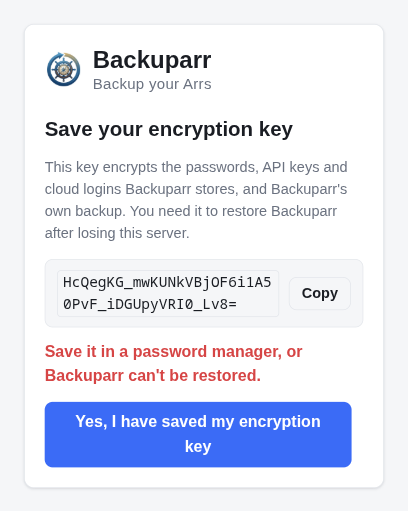
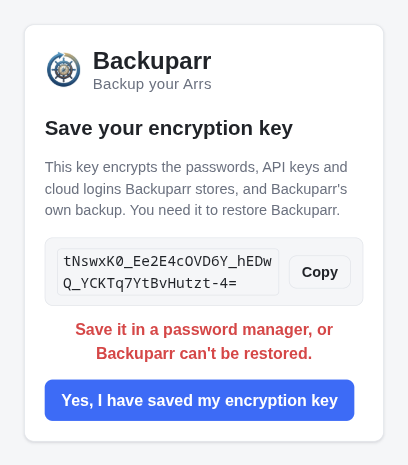
Center the key prompt's warning, move Schedule & notifications up, and show 5 releases in What's Changed

diff --git a/webui/templates/index.html b/webui/templates/index.html
@@ -239,46 +239,6 @@
           </div>
         </div>
 
-        <div class="card" id="request-headers-card">
-          <h2>Service authentication</h2>
-          <p class="hint">Optional HTTP headers for apps behind an authenticating reverse proxy, used for connection tests, discovery, backups and restores. Each header goes to all apps or only the ones you pick. Values are stored encrypted.</p>
-          <div id="request-headers-list"></div>
-          <div class="request-headers-actions">
-            <button type="button" class="btn btn-ghost btn-sm" id="add-request-header">Add header</button>
-            <label><input type="checkbox" id="show-request-headers"> Show values</label>
-          </div>
-          <details class="request-headers-help" id="basic-auth-helper">
-            <summary>Generate Basic authentication</summary>
-            <p class="hint">Generate a Basic authentication value from a username and password, then apply it to a new or existing header.</p>
-            <form id="basic-auth-form" class="basic-auth-form">
-              <label class="field">
-                <span class="field-label">Target header</span>
-                <input id="basic-auth-header" type="text" value="Authorization" list="basic-auth-header-options" autocomplete="off" spellcheck="false" required aria-describedby="basic-auth-header-hint">
-              </label>
-              <datalist id="basic-auth-header-options">
-                <option value="Authorization"></option>
-                <option value="Proxy-Authorization"></option>
-              </datalist>
-              <p class="hint" id="basic-auth-header-hint">Use the header your server expects: Authorization for HTTP Basic, Proxy-Authorization for a proxy that accepts it, or a custom name. Applying replaces the value of the row with that name; to add another row with the same name for different apps, add it with an empty value first.</p>
-              <label class="field">
-                <span class="field-label">Username</span>
-                <input id="basic-auth-username" type="text" autocomplete="off" spellcheck="false" required>
-              </label>
-              <label class="field">
-                <span class="field-label">Password</span>
-                <input id="basic-auth-password" type="password" autocomplete="new-password">
-              </label>
-              <button type="submit" class="btn btn-ghost btn-sm">Apply to header</button>
-              <p id="basic-auth-status" class="test-result" role="status" aria-live="polite"></p>
-            </form>
-          </details>
-          <details class="request-headers-help">
-            <summary>Where headers are used</summary>
-            <p class="hint">App API keys are still required. Each app's own authentication takes priority when it uses the same header name; use a separate header if your proxy supports one.</p>
-            <p class="hint">Each header goes to the URLs of the apps it applies to, including a restore target entered for one of them. The same name can be used for different apps, with a different value for each. Headers are not sent to backup storage or notification services. Redirects to another scheme, host or port are blocked.</p>
-          </details>
-        </div>
-
         <div class="card">
           <h2>Schedule &amp; notifications</h2>
           <div class="field">
@@ -336,6 +296,46 @@
               <span class="test-result" id="notify-test-result"></span>
             </div>
           </div>
+        </div>
+
+        <div class="card" id="request-headers-card">
+          <h2>Service authentication</h2>
+          <p class="hint">Optional HTTP headers for apps behind an authenticating reverse proxy, used for connection tests, discovery, backups and restores. Each header goes to all apps or only the ones you pick. Values are stored encrypted.</p>
+          <div id="request-headers-list"></div>
+          <div class="request-headers-actions">
+            <button type="button" class="btn btn-ghost btn-sm" id="add-request-header">Add header</button>
+            <label><input type="checkbox" id="show-request-headers"> Show values</label>
+          </div>
+          <details class="request-headers-help" id="basic-auth-helper">
+            <summary>Generate Basic authentication</summary>
+            <p class="hint">Generate a Basic authentication value from a username and password, then apply it to a new or existing header.</p>
+            <form id="basic-auth-form" class="basic-auth-form">
+              <label class="field">
+                <span class="field-label">Target header</span>
+                <input id="basic-auth-header" type="text" value="Authorization" list="basic-auth-header-options" autocomplete="off" spellcheck="false" required aria-describedby="basic-auth-header-hint">
+              </label>
+              <datalist id="basic-auth-header-options">
+                <option value="Authorization"></option>
+                <option value="Proxy-Authorization"></option>
+              </datalist>
+              <p class="hint" id="basic-auth-header-hint">Use the header your server expects: Authorization for HTTP Basic, Proxy-Authorization for a proxy that accepts it, or a custom name. Applying replaces the value of the row with that name; to add another row with the same name for different apps, add it with an empty value first.</p>
+              <label class="field">
+                <span class="field-label">Username</span>
+                <input id="basic-auth-username" type="text" autocomplete="off" spellcheck="false" required>
+              </label>
+              <label class="field">
+                <span class="field-label">Password</span>
+                <input id="basic-auth-password" type="password" autocomplete="new-password">
+              </label>
+              <button type="submit" class="btn btn-ghost btn-sm">Apply to header</button>
+              <p id="basic-auth-status" class="test-result" role="status" aria-live="polite"></p>
+            </form>
+          </details>
+          <details class="request-headers-help">
+            <summary>Where headers are used</summary>
+            <p class="hint">App API keys are still required. Each app's own authentication takes priority when it uses the same header name; use a separate header if your proxy supports one.</p>
+            <p class="hint">Each header goes to the URLs of the apps it applies to, including a restore target entered for one of them. The same name can be used for different apps, with a different value for each. Headers are not sent to backup storage or notification services. Redirects to another scheme, host or port are blocked.</p>
+          </details>
         </div>
 
         <div class="card">
@@ -487,6 +487,7 @@
     </div>
     <div class="modal-body">
       <div id="whats-changed-body"></div>
+      <p class="whats-changed-all"><a href="https://github.com/rsaturns/backuparr/releases" target="_blank" rel="noopener noreferrer">View all changes</a></p>
     </div>
   </div>
 </div>
@@ -497,13 +498,13 @@
       <h3 id="key-modal-title">Save your encryption key</h3>
     </div>
     <div class="modal-body">
-    <p class="hint">This key encrypts the passwords, API keys and cloud logins Backuparr stores, and Backuparr's own backup. You need it to restore Backuparr after losing this server.</p>
+    <p class="hint">This key encrypts the passwords, API keys and cloud logins Backuparr stores, and Backuparr's own backup. You need it to restore Backuparr.</p>
       <div class="key-box">
         <code id="key-value" class="key-value"></code>
         <button type="button" class="btn btn-ghost btn-sm" id="key-copy-btn">Copy</button>
       </div>
       <p id="key-env-note" class="hint hidden">It's the key set with <code>BACKUPARR_SECRETS_KEY</code>.</p>
-      <p class="key-warning"><strong>Save it in a password manager, or Backuparr can't be restored.</strong> It will never be shown again.</p>
+      <p class="key-warning key-warning-centered"><strong>Save it in a password manager, or Backuparr can't be restored.</strong> It will never be shown again.</p>
       <div class="save-row">
         <button type="button" class="btn btn-primary" id="key-ack-btn">Yes, I have saved my encryption key</button>
         <span id="key-result" class="save-result"></span>

diff --git a/webui/templates/setup.html b/webui/templates/setup.html
@@ -84,13 +84,13 @@
     </div>
     <div id="key-step" class="hidden">
     <h2>Save your encryption key</h2>
-    <p class="hint">This key encrypts the passwords, API keys and cloud logins Backuparr stores, and Backuparr's own backup. You need it to restore Backuparr after losing this server.</p>
+    <p class="hint">This key encrypts the passwords, API keys and cloud logins Backuparr stores, and Backuparr's own backup. You need it to restore Backuparr.</p>
     <div class="key-box">
       <code id="key-value" class="key-value"></code>
       <button type="button" class="btn btn-ghost btn-sm" id="key-copy-btn">Copy</button>
     </div>
     <p id="key-env-note" class="hint hidden">It's the key set with <code>BACKUPARR_SECRETS_KEY</code>.</p>
-    <p class="key-warning"><strong>Save it in a password manager, or Backuparr can't be restored.</strong></p>
+    <p class="key-warning key-warning-centered"><strong>Save it in a password manager, or Backuparr can't be restored.</strong></p>
     <div class="save-row">
       <button type="button" class="btn btn-primary" id="key-ack-btn">Yes, I have saved my encryption key</button>
       <span id="key-result" class="save-result"></span>

diff --git a/webui/static/style.css b/webui/static/style.css
@@ -1163,6 +1163,7 @@ code {
 .release-body li { margin: 4px 0; }
 
 .whats-changed-error { font-size: 16px; color: var(--danger); }
+.whats-changed-all { margin: 16px 0 0; text-align: center; font-size: 15px; }
 
 /* ------------------------------------------------------------- auth ---- */
 .auth-page {
@@ -1276,6 +1277,7 @@ code {
   user-select: all;
 }
 .key-warning { color: var(--danger); margin: 8px 0 14px; }
+.key-warning-centered { text-align: center; }
 
 /* ------------------------------------------------------------ user menu --- */
 .user-menu { position: relative; }

diff --git a/CHANGELOG.md b/CHANGELOG.md
@@ -13,11 +13,14 @@ format is based on [Keep a Changelog](https://keepachangelog.com/en/1.1.0/).
 - Each app's log and result from every run are kept across restarts: **View log** on its Overview tile and on each History row, and History lists runs that left no backup with the reason. The Overview's status is right after a restart (#109).
 - Backuparr backs up its own configuration at the end of each full run, encrypted with your encryption key, to every destination. Your encryption key is shown once, after setup or after updating, until you confirm you've saved it (#110).
 - Restore Backuparr from its own backup with your encryption key: on the setup screen of a new install, or from Settings (#111).
+- The Overview has a Backuparr card with its own latest backup and run log.
 - Change the admin password: click your username at the top right, which replaces the Log out button and also holds Log out (#120).
 - Forgot your password? Delete `auth.json` and create a new login on the setup screen with your encryption key; your settings are kept. Without the key, an install that already holds settings can't be given a new login (#123).
 
 ### Changed
 
+- What's Changed shows the last 5 releases, with a link to all of them.
+- The run log also closes when you click outside it, and Settings lists Schedule & notifications above Service authentication.
 - The docs have a Features page, a Backups and history page and an Updating page, cover every 2.5.0 change, and have new screenshots.
 - Backups are zipped at the default compression level instead of the maximum, so large databases (Emby, Plex, Seerr) zip much faster.
 - The container starts faster: it fixes the ownership of only the files that need it, not every local backup.

diff --git a/docs/settings.md b/docs/settings.md
@@ -10,10 +10,10 @@ The **Settings** tab holds, from top to bottom:
 - **Apps** - a card per app: switch it on, enter its URL and API key, and
   click **Test connection**. See [Apps](apps/index.md).
 - **Destinations** - see [Destinations](destinations.md).
-- **Service authentication** - see [below](#service-authentication-headers).
 - **Schedule & notifications** - retention, the schedule, the
   [Notify URL](notifications.md), and whether Backuparr
   [backs itself up](security.md#backuparrs-own-backup).
+- **Service authentication** - see [below](#service-authentication-headers).
 - **Restore Backuparr** - see [Restoring Backuparr itself](restoring.md#restoring-backuparr-itself).
 
 App, destination and schedule changes apply when you click **Save settings**.
